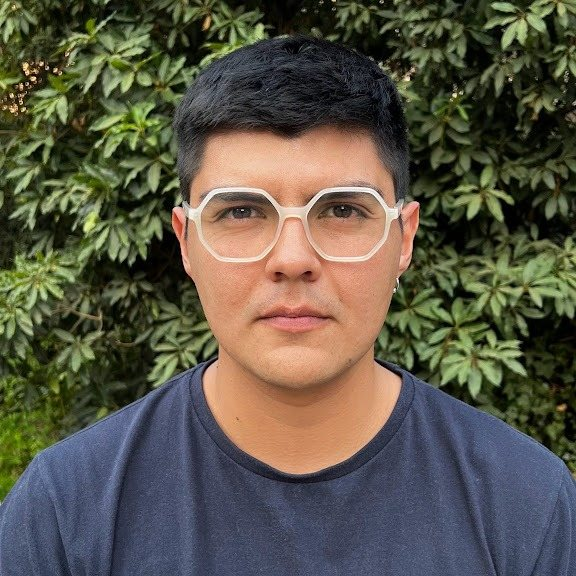
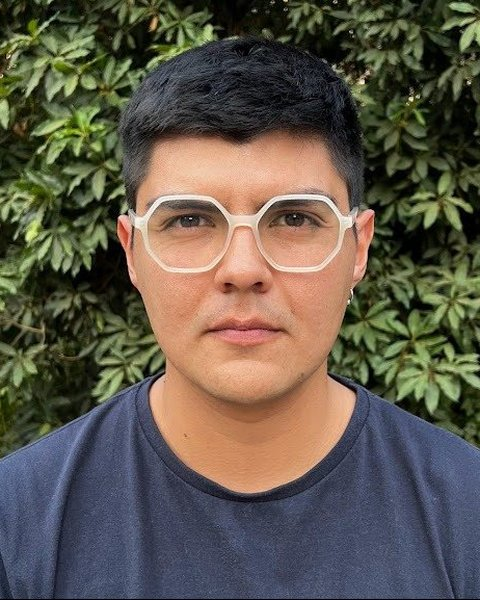
Add files via upload

diff --git a/assets/js/content.js b/assets/js/content.js
@@ -1,5 +1,5 @@
 /* ==========================================================================
-   OBRA — CONTENIDO DEL SITIO
+   OBRA: CONTENIDO DEL SITIO
    --------------------------------------------------------------------------
    Este es el único archivo que necesitas editar para cambiar textos,
    publicaciones, actividades y miembros del equipo.
@@ -34,8 +34,8 @@ window.OBRA = {
                          en: "Observatory of Self-Built Neighbourhoods and Housing" },
     "hero.meta2":      { es: "Plataforma de investigación emergente",
                          en: "Emerging research platform" },
-    "hero.meta3":      { es: "Santiago · Nueva York · Red abierta",
-                         en: "Santiago · New York · Open network" },
+    "hero.meta3":      { es: "Red abierta",
+                         en: "Open network" },
     "hero.lede":       { es: "Reunimos a investigadoras e investigadores emergentes que trabajan sobre las viviendas y los barrios que sus propios habitantes producen. Documentamos cómo se construyen, qué formas políticas generan y qué se ha escrito sobre ellos.",
                          en: "We bring together emerging researchers working on the housing and neighbourhoods that residents build themselves. We document how they are made, the political forms they generate, and what has been written about them." },
     "hero.scroll":     { es: "Desliza · Manifiesto", en: "Scroll · Manifesto" },
@@ -49,28 +49,28 @@ window.OBRA = {
     "manifesto.title": { es: "Seis puntos de partida", en: "Six starting points" },
 
     "m1.h": { es: "La ciudad se construye sin permiso", en: "The city is built without permission" },
-    "m1.p": { es: "La mayor parte de la vivienda del mundo se levanta fuera de los circuitos formales de la arquitectura, el crédito y la norma. Ese hecho ordena la vida cotidiana de miles de millones de personas y todavía se discute como una excepción. OBRA lo trata como la regla.",
-              en: "Most of the world's housing goes up outside the formal circuits of architecture, credit and regulation. This fact organises the daily life of billions of people and is still discussed as an exception. OBRA treats it as the rule." },
+    "m1.p": { es: "Tratar como regla lo que todavía se discute como excepción. La mayor parte de la vivienda del mundo se levanta fuera de los circuitos formales de la arquitectura, el crédito y la norma, y ese hecho ordena la vida cotidiana de miles de millones de personas.",
+              en: "Treat as the rule what is still discussed as an exception. Most of the world's housing goes up outside the formal circuits of architecture, credit and regulation, and this fact organises the daily life of billions of people." },
 
     "m2.h": { es: "La autoconstrucción es un método", en: "Self-building is a method" },
-    "m2.p": { es: "Levantar una casa por partes, durante décadas, con los materiales disponibles, exige un saber técnico, financiero y político propio. Ese saber tiene historia, gramática y capacidad de transmisión. Lo documentamos como tal.",
-              en: "Raising a house in stages, over decades, with whatever materials are at hand, demands its own technical, financial and political knowledge. That knowledge has a history, a grammar and the capacity to be taught. We document it as such." },
+    "m2.p": { es: "Documentar la autoconstrucción como un saber técnico, financiero y político propio. Levantar una casa por partes, durante décadas, con los materiales disponibles, es un oficio con historia, gramática y capacidad de transmisión.",
+              en: "Document self-building as a technical, financial and political knowledge in its own right. Raising a house in stages, over decades, with whatever materials are at hand is a craft with a history, a grammar and the capacity to be taught." },
 
     "m3.h": { es: "El barrio es una institución política", en: "The neighbourhood is a political institution" },
-    "m3.p": { es: "Los asentamientos autoproducidos resuelven agua, electricidad, suelo y seguridad antes de que el Estado llegue. En ese proceso producen autoridad, membresía y formas concretas de ciudadanía. Observamos esas formas.",
-              en: "Self-produced settlements resolve water, electricity, land and safety before the state arrives. In doing so they produce authority, membership and concrete forms of citizenship. We observe those forms." },
+    "m3.p": { es: "Observar la autoridad, la membresía y las formas concretas de ciudadanía que producen los asentamientos autoproducidos cuando resuelven agua, electricidad, suelo y seguridad antes de que llegue el Estado.",
+              en: "Observe the authority, membership and concrete forms of citizenship that self-produced settlements generate when they resolve water, electricity, land and safety before the state arrives." },
 
     "m4.h": { es: "La investigación emergente está dispersa", en: "Emerging research is scattered" },
-    "m4.p": { es: "Tesis doctorales, trabajos de campo y archivos comunitarios circulan poco y envejecen en repositorios institucionales. OBRA reúne ese trabajo en un solo lugar, con nombre, autoría y contexto.",
-              en: "Doctoral theses, fieldwork and community archives circulate little and age inside institutional repositories. OBRA gathers that work in one place, with names, authorship and context." },
+    "m4.p": { es: "Reunir en un solo lugar, con nombre, autoría y contexto, las tesis doctorales, los trabajos de campo y los archivos comunitarios que hoy circulan poco y envejecen en repositorios institucionales.",
+              en: "Gather in one place, with names, authorship and context, the doctoral theses, fieldwork and community archives that today circulate little and age inside institutional repositories." },
 
     "m5.h": { es: "El sur global no es un caso de estudio", en: "The global South is not a case study" },
-    "m5.p": { es: "Los campamentos de Santiago, las favelas de São Paulo, los sótanos habitados de Nueva York y las construcciones por cuenta propia de Nairobi comparten problemas de tenencia, financiamiento y reconocimiento. Trabajamos entre ellos sin jerarquías de referencia.",
-              en: "Santiago's campamentos, São Paulo's favelas, New York's inhabited basements and Nairobi's owner-built housing share problems of tenure, finance and recognition. We work across them without hierarchies of reference." },
+    "m5.p": { es: "Trabajar entre los campamentos de Santiago, las favelas de São Paulo, los sótanos habitados de Nueva York y las construcciones por cuenta propia de Nairobi, sin jerarquías de referencia. Todos comparten problemas de tenencia, financiamiento y reconocimiento.",
+              en: "Work across Santiago's campamentos, São Paulo's favelas, New York's inhabited basements and Nairobi's owner-built housing, without hierarchies of reference. All of them share problems of tenure, finance and recognition." },
 
     "m6.h": { es: "Visibilizar es una operación política", en: "Making visible is a political operation" },
-    "m6.p": { es: "Nombrar, mapear y publicar cambia lo que puede discutirse en política de vivienda. OBRA publica para que estos barrios entren en la discusión con su propio vocabulario.",
-              en: "Naming, mapping and publishing changes what can be discussed in housing policy. OBRA publishes so that these neighbourhoods enter the debate on their own terms." },
+    "m6.p": { es: "Publicar para que estos barrios entren en la discusión sobre política de vivienda con su propio vocabulario. Nombrar, mapear y difundir cambia lo que puede discutirse.",
+              en: "Publish so that these neighbourhoods enter the housing policy debate in their own vocabulary. Naming, mapping and circulating changes what can be discussed." },
 
     /* --- Portada: qué observamos --- */
     "axioms.label": { es: "§02 / Qué observamos", en: "§02 / What we observe" },
@@ -221,60 +221,13 @@ window.OBRA = {
      ------------------------------------------------------------------------ */
   publications: [
     {
-      year: "2026", cat: "articulo", url: "#",
-      author: { es: "Alonso López", en: "Alonso López" },
-      title: { es: "Ciudadanía por bricolaje: construir pertenencia en los campamentos de Santiago",
-               en: "Bricolage Citizenship: Building Belonging in Santiago's Autoconstructed Settlements" },
-      desc:  { es: "Cómo la construcción por etapas de una vivienda produce, a la vez, una posición política reconocible frente al Estado.",
-               en: "How building a house in stages simultaneously produces a recognisable political position before the state." }
-    },
-    {
-      year: "2026", cat: "blog", url: "#",
-      author: { es: "Redacción OBRA", en: "OBRA editorial" },
-      title: { es: "Cinco etapas de una casa que nunca termina",
-               en: "Five stages of a house that is never finished" },
-      desc:  { es: "Una lectura del ciclo de ampliación de la vivienda autoconstruida, desde la mediagua hasta el segundo piso.",
-               en: "A reading of the expansion cycle of self-built housing, from the emergency shelter to the second floor." }
-    },
-    {
-      year: "2025", cat: "iniciativa", url: "#",
-      author: { es: "OBRA", en: "OBRA" },
-      title: { es: "Cartografía abierta de asentamientos autoproducidos",
-               en: "Open cartography of self-produced settlements" },
-      desc:  { es: "Un mapa colaborativo que registra ubicación, antigüedad y estado de tenencia de asentamientos en cuatro países.",
-               en: "A collaborative map recording location, age and tenure status of settlements across four countries." }
-    },
-    {
-      year: "2025", cat: "articulo", url: "#",
-      author: { es: "Por definir", en: "To be confirmed" },
-      title: { es: "Infraestructura por cuenta propia: agua y electricidad antes del Estado",
-               en: "Do-it-yourself infrastructure: water and electricity before the state" },
-      desc:  { es: "Redes construidas por los vecinos, su mantenimiento cotidiano y su relación con la formalización posterior.",
-               en: "Networks built by residents, their everyday maintenance and their relation to later formalisation." }
-    },
-    {
-      year: "2025", cat: "libro", url: "#",
-      author: { es: "Reseña", en: "Review" },
-      title: { es: "Manual de la casa progresiva",
-               en: "Manual of the incremental house" },
-      desc:  { es: "Reseña de un manual técnico que documenta la construcción por etapas con materiales de mercado local.",
-               en: "Review of a technical manual documenting stage-by-stage construction with locally available materials." }
-    },
-    {
-      year: "2024", cat: "blog", url: "#",
-      author: { es: "Redacción OBRA", en: "OBRA editorial" },
-      title: { es: "Qué le debe la arquitectura a la autoconstrucción",
-               en: "What architecture owes to self-building" },
-      desc:  { es: "Una revisión de las soluciones técnicas que la disciplina tomó de la construcción popular sin acreditarlas.",
-               en: "A review of the technical solutions the discipline took from popular construction without crediting them." }
-    },
-    {
-      year: "2024", cat: "archivo", url: "#",
-      author: { es: "Archivo OBRA", en: "OBRA archive" },
-      title: { es: "Registro fotográfico: veinte años de una manzana",
-               en: "Photographic record: twenty years of a city block" },
-      desc:  { es: "Serie comparada que documenta el crecimiento de una manzana autoconstruida entre 2004 y 2024.",
-               en: "A comparative series documenting the growth of a self-built city block between 2004 and 2024." }
+      year: "2025", cat: "articulo", url: "https://revistaabismo.com/construir-un-futuro-incierto/",
+      author: { es: "Renato González y Alonso López · Revista Abismo",
+                en: "Renato González and Alonso López · Revista Abismo" },
+      title: { es: "Construir un futuro incierto",
+               en: "Construir un futuro incierto (Building an uncertain future, in Spanish)" },
+      desc:  { es: "Crónica sobre el Campamento Nueva Cordillera, en Puente Alto: la autoconstrucción de 174 hogares en los faldeos del cerro La Ballena bajo la amenaza del desalojo.",
+               en: "A chronicle of Campamento Nueva Cordillera in Puente Alto: 174 households self-building their homes on the slopes of Cerro La Ballena under the threat of eviction." }
     }
   ],
 
@@ -285,36 +238,20 @@ window.OBRA = {
      ------------------------------------------------------------------------ */
   activities: [
     {
-      date: "2026-09-24", url: "#",
-      place: { es: "En línea", en: "Online" },
-      title: { es: "Seminario de apertura: observar lo autoconstruido",
-               en: "Opening seminar: observing the self-built" },
-      desc:  { es: "Sesión inaugural del observatorio. Presentación del manifiesto y discusión abierta sobre los métodos de trabajo de la red.",
-               en: "Inaugural session of the observatory. Presentation of the manifesto and open discussion of the network's working methods." }
+      date: "2026-12-15", url: "#",
+      place: { es: "Lugar por confirmar", en: "Venue to be confirmed" },
+      title: { es: "Lanzamiento de la plataforma OBRA",
+               en: "Launch of the OBRA platform" },
+      desc:  { es: "Presentación pública del observatorio, su equipo y su plataforma de publicaciones sobre barrios y viviendas autoconstruidas.",
+               en: "Public presentation of the observatory, its team and its publication platform on self-built neighbourhoods and housing." }
     },
     {
-      date: "2026-10-15", url: "#",
-      place: { es: "Híbrido · Santiago", en: "Hybrid · Santiago" },
-      title: { es: "Taller: métodos de campo en asentamientos populares",
-               en: "Workshop: fieldwork methods in informal settlements" },
-      desc:  { es: "Taller práctico sobre entrada al campo, consentimiento, registro visual y devolución de resultados a la comunidad.",
-               en: "A practical workshop on entering the field, consent, visual recording and returning results to the community." }
-    },
-    {
-      date: "2026-11-06", url: "#",
-      place: { es: "Híbrido · Nueva York", en: "Hybrid · New York" },
-      title: { es: "Conversatorio: tenencia y derecho a permanecer",
-               en: "Conversation: tenure and the right to remain" },
-      desc:  { es: "Discusión comparada sobre regularización, desalojo y las estrategias vecinales para asegurar la permanencia.",
-               en: "A comparative discussion on regularisation, eviction and residents' strategies for securing permanence." }
-    },
-    {
-      date: "2026-06-12", url: "#",
-      place: { es: "En línea", en: "Online" },
-      title: { es: "Presentación pública del observatorio",
-               en: "Public launch of the observatory" },
-      desc:  { es: "Primera reunión abierta con investigadoras e investigadores interesados en integrar la red.",
-               en: "First open meeting with researchers interested in joining the network." }
+      date: "2027-03-15", url: "#",
+      place: { es: "Lugar por confirmar", en: "Venue to be confirmed" },
+      title: { es: "Puntapié inicial del Workshop Trimestral de OBRA",
+               en: "Kick-off of the OBRA Quarterly Workshop" },
+      desc:  { es: "Primera sesión del workshop trimestral, un espacio regular para discutir investigaciones en curso sobre autoconstrucción y asentamientos populares.",
+               en: "First session of the quarterly workshop, a regular space to discuss ongoing research on self-building and informal settlements." }
     }
   ],
 
@@ -326,26 +263,38 @@ window.OBRA = {
     {
       name: "Alonso López",
       photo: "assets/img/alonso-lopez.jpg",
-      role: { es: "Fundador y Director",
-              en: "Founder and Director" },
-      affiliation: { es: "The New School for Social Research · ICSO, Universidad Diego Portales",
-                     en: "The New School for Social Research · ICSO, Universidad Diego Portales" },
-      bio: { es: "Candidato a doctor en Sociología. Investiga la autoconstrucción de viviendas y la formación de ciudadanía en asentamientos de Santiago. Editor general de Cuadernos de Teoría Social.",
-             en: "PhD candidate in Sociology. Researches self-built housing and the formation of citizenship in Santiago's settlements. General editor of Cuadernos de Teoría Social." },
-      works: [
-        { es: "Ciudadanía por bricolaje: construir pertenencia en los campamentos de Santiago (tesis doctoral en curso)",
-          en: "Bricolage Citizenship: Building Belonging in Santiago's Autoconstructed Settlements (doctoral dissertation in progress)" },
-        { es: "Urban Theory Workshop, coordinación general",
-          en: "Urban Theory Workshop, general coordination" }
-      ],
-      links: [
-        { label: { es: "Correo", en: "Email" }, url: "mailto:obra.obs@gmail.com" }
-      ]
+      role: { es: "Director", en: "Director" },
+      affiliation: { es: "The New School for Social Research",
+                     en: "The New School for Social Research" },
+      bio: { es: "Doctorando en Sociología. Investiga la autoconstrucción de viviendas y la formación de ciudadanía en los asentamientos de Santiago. Editor general de Cuadernos de Teoría Social.",
+             en: "PhD student in Sociology. Researches self-built housing and the formation of citizenship in Santiago's settlements. General editor of Cuadernos de Teoría Social." }
+    },
+    {
+      name: "Monise Valente da Silva",
+      photo: "assets/img/monise-valente-da-silva.jpg",
+      role: { es: "Investigadora principal", en: "Principal researcher" },
+      affiliation: { es: "City University of New York, John Jay College",
+                     en: "City University of New York, John Jay College" },
+      bio: { es: "Doctora en Políticas Públicas y Urbanas y profesora asistente de Estudios Interdisciplinarios. Investiga las tácticas de los movimientos de vivienda y la política socioespacial de las ocupaciones en Brasil.",
+             en: "Doctor in Public and Urban Policy and Assistant Professor of Interdisciplinary Studies. Researches housing movement tactics and the sociospatial politics of squatting in Brazil." }
     },
     {
       name: "Julia Sotomayor",
-      role: { es: "Investigadora asociada",
-              en: "Associate researcher" }
+      photo: "assets/img/julia-sotomayor.jpg",
+      role: { es: "Investigadora asociada", en: "Associate researcher" },
+      affiliation: { es: "Universidad Alberto Hurtado",
+                     en: "Universidad Alberto Hurtado" },
+      bio: { es: "Antropóloga. Trabaja en patrimonio, educación y metodologías participativas, con experiencia en investigación aplicada, mediación comunitaria y producción documental en Santiago.",
+             en: "Anthropologist. Works on heritage, education and participatory methods, with experience in applied research, community mediation and documentary production in Santiago." }
+    },
+    {
+      name: "Gustavo Azevedo",
+      photo: "assets/img/gustavo-azevedo.jpg",
+      role: { es: "Investigador asociado", en: "Associate researcher" },
+      affiliation: { es: "IESP, Universidade do Estado do Rio de Janeiro",
+                     en: "IESP, Universidade do Estado do Rio de Janeiro" },
+      bio: { es: "Doctorando en Sociología e investigador del grupo CASA. Estudia cómo los habitantes de la Baixada Fluminense autoconstruyen sus casas a través de mercados informales de servicios de construcción.",
+             en: "PhD student in Sociology and researcher at the CASA group. Studies how residents of the Baixada Fluminense self-build their homes through informal markets for construction services." }
     }
   ],
 

diff --git a/assets/js/main.js b/assets/js/main.js
@@ -222,6 +222,8 @@
     var list = $("#latest-list");
     if (!list) { return; }
     list.innerHTML = "";
+    var latestSection = list.closest("section");
+    if (latestSection) { latestSection.hidden = DATA.publications.length === 0; }
     DATA.publications.slice(0, 3).forEach(function (item) {
       list.appendChild(publicationRow(item));
     });
@@ -285,6 +287,8 @@
 
     if (pastBox) {
       pastBox.innerHTML = "";
+      var pastSection = pastBox.closest("section");
+      if (pastSection) { pastSection.hidden = past.length === 0; }
       past.forEach(function (a) { pastBox.appendChild(activityRow(a, true)); });
     }
   }
@@ -347,10 +351,10 @@
       var head = el("div");
       head.appendChild(el("h2", "person__name", person.name));
       head.appendChild(el("p", "person__role", pick(person.role)));
-      head.appendChild(el("p", "meta", pick(person.affiliation)));
+      if (pick(person.affiliation)) { head.appendChild(el("p", "meta", pick(person.affiliation))); }
       card.appendChild(head);
 
-      card.appendChild(el("p", "person__bio", pick(person.bio)));
+      if (pick(person.bio)) { card.appendChild(el("p", "person__bio", pick(person.bio))); }
 
       if (person.links && person.links.length) {
         var links = el("div", "person__links");

diff --git a/assets/css/style.css b/assets/css/style.css
@@ -565,7 +565,7 @@ ul, ol { list-style: none; padding: 0; }
   width: 100%;
   height: 100%;
   object-fit: cover;
-  object-position: center 28%;
+  object-position: center;
   display: block;
   filter: grayscale(100%);
   transition: filter 0.5s ease;
